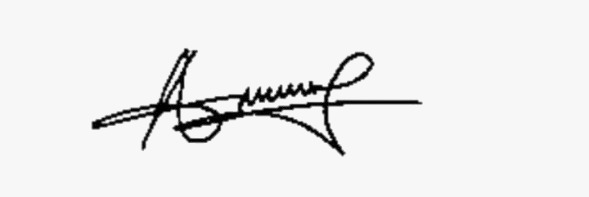
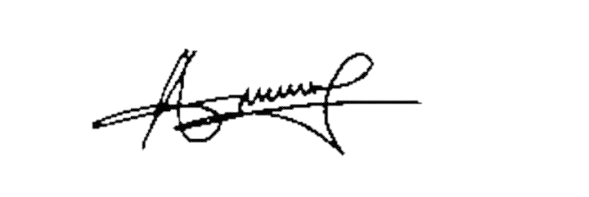
UPDATE: Replace certificate signatures with new PNG versions
- Updated president-signature.jpg to president-signature.png
- Updated Dr_Augustine_Duru_signature.jpg to Dr_Augustine_Duru_signature.png
- Chairman signature already PNG, updated file
- Updated backend references to use new PNG files
- Rebuilt frontend with new signatures

Changed region(s): [[0.1528, 0.2437, 0.7334, 0.7919]]

diff --git a/test_certificate_endpoints.py b/test_certificate_endpoints.py
@@ -1,0 +1,92 @@
+#!/usr/bin/env python3
+"""
+Test script to check specific certificate endpoints and error details
+"""
+import requests
+import json
+
+def test_certificate_endpoints():
+    """Test certificate-related endpoints"""
+    base_url = "https://douglas-app-hwqj3.ondigitalocean.app"
+    
+    print("🧪 Testing certificate endpoints...")
+    
+    # First, get health status
+    try:
+        health_response = requests.get(f"{base_url}/api/health", timeout=30)
+        if health_response.status_code == 200:
+            health_data = health_response.json()
+            print(f"\n📊 Health Check:")
+            print(f"   PDF Generation: {health_data.get('pdf_generation', 'unknown')}")
+            print(f"   Database: {health_data.get('database', 'unknown')}")
+            print(f"   Environment: {health_data.get('environment', 'unknown')}")
+    except Exception as e:
+        print(f"❌ Health check failed: {e}")
+    
+    # Get participants to find valid IDs
+    try:
+        participants_response = requests.get(f"{base_url}/api/participants", timeout=30)
+        if participants_response.status_code == 200:
+            participants_data = participants_response.json()
+            participants = participants_data.get('participants', [])
+            print(f"\n👥 Found {len(participants)} participants")
+            
+            if participants:
+                # Test with first participant
+                participant_id = participants[0].get('id')
+                participant_name = participants[0].get('name', 'Unknown')
+                print(f"   Testing with participant: {participant_name} (ID: {participant_id})")
+                
+                # Test certificate generation (GET - no email)
+                try:
+                    test_url = f"{base_url}/api/test-certificate/{participant_id}"
+                    print(f"\n🔍 Testing certificate generation: {test_url}")
+                    
+                    test_response = requests.get(test_url, timeout=30)
+                    print(f"   Status: {test_response.status_code}")
+                    print(f"   Content-Type: {test_response.headers.get('Content-Type', 'N/A')}")
+                    
+                    if test_response.status_code == 200:
+                        print("   ✅ Certificate generation working")
+                        try:
+                            response_data = test_response.json()
+                            print(f"   📄 Response keys: {list(response_data.keys())}")
+                        except:
+                            print(f"   📄 Response length: {len(test_response.content)} bytes")
+                    else:
+                        print(f"   ❌ Certificate generation failed: {test_response.text[:200]}")
+                        
+                except Exception as e:
+                    print(f"   ❌ Certificate test error: {e}")
+                
+                # Test certificate sending (POST - with email)
+                try:
+                    send_url = f"{base_url}/api/send-certificate/{participant_id}"
+                    print(f"\n🔍 Testing certificate sending: {send_url}")
+                    
+                    send_response = requests.post(send_url, timeout=30)
+                    print(f"   Status: {send_response.status_code}")
+                    print(f"   Content-Type: {send_response.headers.get('Content-Type', 'N/A')}")
+                    
+                    if send_response.status_code == 200:
+                        print("   ✅ Certificate sending working")
+                        try:
+                            response_data = send_response.json()
+                            print(f"   📄 Response keys: {list(response_data.keys())}")
+                        except:
+                            print(f"   📄 Response length: {len(send_response.content)} bytes")
+                    else:
+                        print(f"   ❌ Certificate sending failed: {send_response.text[:500]}")
+                        
+                except Exception as e:
+                    print(f"   ❌ Certificate send error: {e}")
+            else:
+                print("   ⚠ No participants found to test with")
+                
+    except Exception as e:
+        print(f"❌ Participants check failed: {e}")
+    
+    print("\n🏁 Certificate testing complete")
+
+if __name__ == "__main__":
+    test_certificate_endpoints()

diff --git a/backend/minimal_app.py b/backend/minimal_app.py
@@ -343,9 +343,9 @@ def load_signature_file(filename):
         return ""
 
 # Load signature files at startup
-PRESIDENT_SIGNATURE = load_signature_file('president-signature.jpg')
+PRESIDENT_SIGNATURE = load_signature_file('president-signature.png')
 CHAIRMAN_SIGNATURE = load_signature_file('chairman-signature.png') 
-SECRETARY_SIGNATURE = load_signature_file('Dr_Augustine_Duru_signature.jpg')
+SECRETARY_SIGNATURE = load_signature_file('Dr_Augustine_Duru_signature.png')
 
 # Load logo file
 MDCAN_LOGO = load_signature_file('logo-mdcan.jpeg')
@@ -714,9 +714,9 @@ def serve_static_files(filename):
     """Serve signature files and other static assets"""
     # Define the files that should be served directly
     static_files = [
-        'president-signature.jpg',
+        'president-signature.png',
         'chairman-signature.png', 
-        'Dr_Augustine_Duru_signature.jpg',
+        'Dr_Augustine_Duru_signature.png',
         'logo-mdcan.jpeg',
         'certificate_background.png'
     ]
